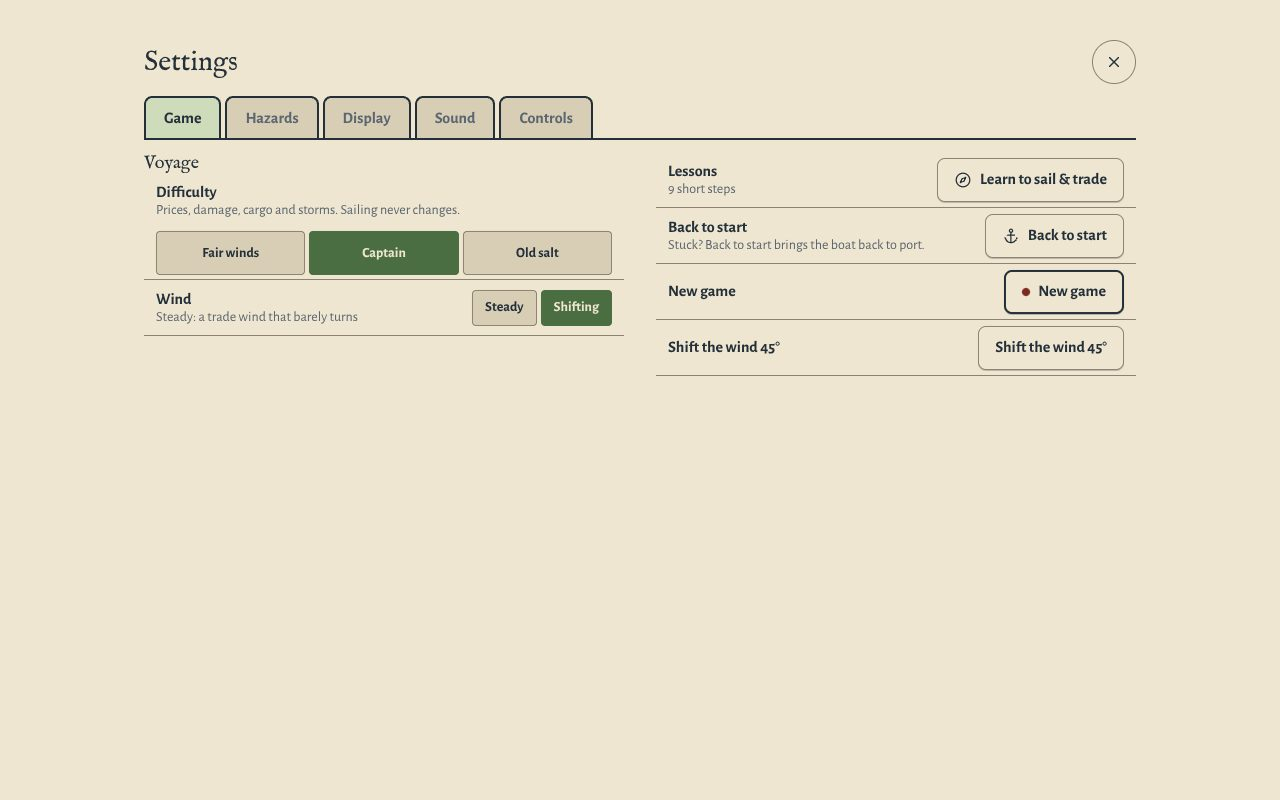
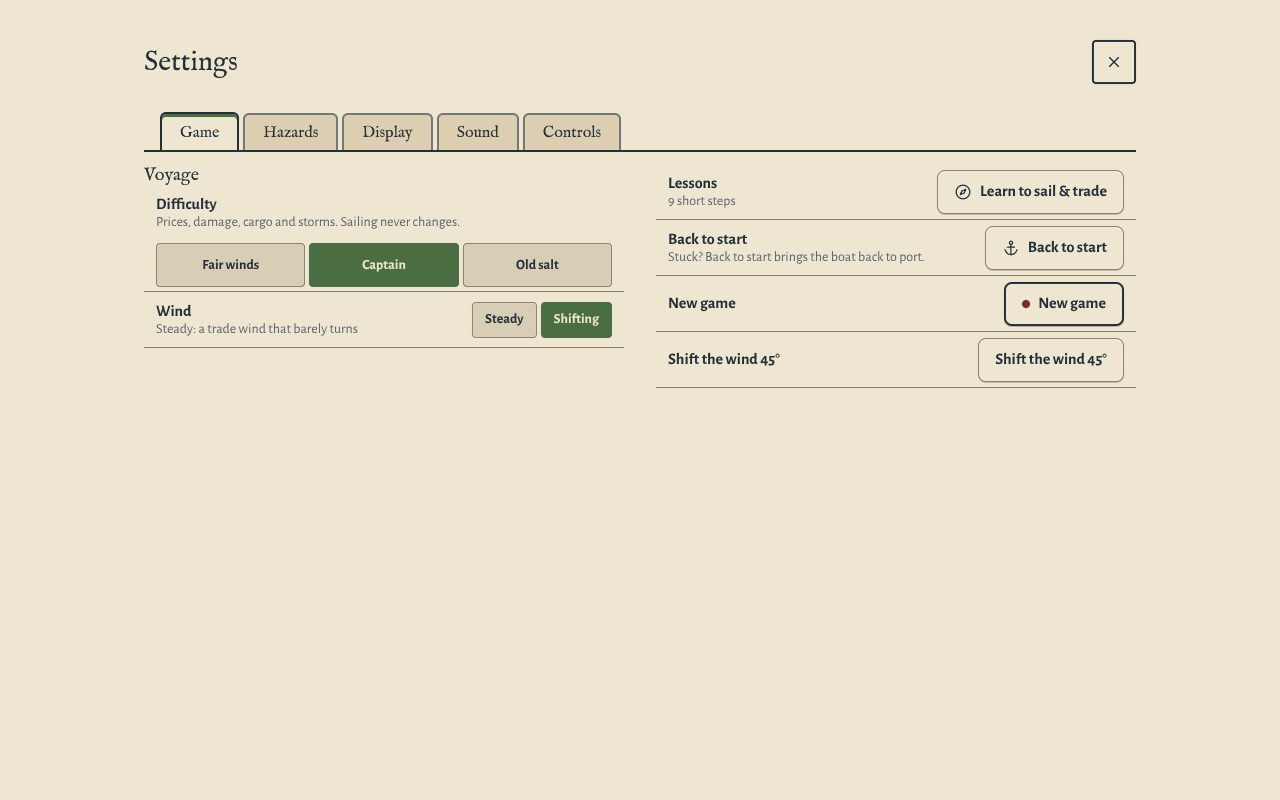
Tab bar as index tabs on a rule (art director spec); square close keycap
Claude-Session: https://claude.ai/code/session_013jvdBvYqFyHBf6tPtHmhV8

Changed region(s): [[0.0938, 0.0938, 0.7188, 0.4688], [0.7188, 0.1875, 0.875, 0.5]]

diff --git a/src/ui/components/components.css b/src/ui/components/components.css
@@ -62,12 +62,13 @@
   outline-offset: 2px;
 }
 
-/* --- Tab bar: paper tabs with an ink edge; the chosen one is sage wash with ink text ------------- */
-/* Every tab keeps one box and one weight, so choosing a tab only changes colours. */
+/* --- Tab bar: index tabs on a rule, like the tabs of a chart book (issue #457) ------------------ */
+/* A tab keeps one box and one weight chosen or not, so choosing only changes paper and the bar. */
 .ui-tabs {
   display: flex;
   align-items: flex-end;
   gap: var(--ui-tabs-gap);
+  padding: var(--ui-tabs-badge) var(--ui-space-2) 0 0;
   overflow-x: auto;
   scrollbar-width: none;
   border-bottom: var(--ui-tabs-edge) solid var(--ui-ink);
@@ -76,26 +77,39 @@
   display: none;
 }
 .ui-tab {
+  position: relative;
   display: flex;
   flex: none;
   align-items: center;
   gap: var(--ui-space-2);
-  min-height: var(--ui-touch-target);
-  margin-bottom: calc(-1 * var(--ui-tabs-edge));
+  height: calc(var(--ui-tabs-height) - var(--ui-tabs-rest-drop));
   padding: 0 var(--ui-tabs-pad-x);
-  border: var(--ui-tabs-edge) solid var(--ui-ink);
-  border-radius: var(--ui-radius-m) var(--ui-radius-m) 0 0;
-  background: var(--ui-face-off);
-  color: var(--ui-muted);
-  font-family: var(--ui-font-text);
+  border: var(--ui-tabs-edge) solid var(--ui-ink-soft);
+  border-bottom: 0;
+  border-radius: var(--ui-tabs-radius) var(--ui-tabs-radius) 0 0;
+  background: var(--ui-tab-rest);
+  color: var(--ui-ink);
+  font-family: var(--ui-font-title);
   font-size: var(--fs-lead);
-  font-weight: 700;
   white-space: nowrap;
   cursor: pointer;
 }
+/* The finger's zone is 44 px tall though the tab is shorter. */
+.ui-tab::after {
+  content: '';
+  position: absolute;
+  inset: -4px 0 0;
+}
 .ui-tab[aria-selected='true'] {
+  height: var(--ui-tabs-height);
+  margin-bottom: calc(-1 * var(--ui-tabs-edge));
+  border-color: var(--ui-ink);
+  background: var(--ui-face);
+  box-shadow: inset 0 var(--ui-tabs-bar) 0 var(--ui-sage);
+}
+.ui-tab:not([aria-selected='true']):hover,
+.ui-tab:not([aria-selected='true']):focus-visible {
   background: var(--ui-wash);
-  color: var(--ui-ink);
 }
 .ui-tab-icon {
   display: flex;
@@ -107,21 +121,21 @@
   height: 100%;
 }
 .ui-tab-badge {
-  display: inline-grid;
+  position: absolute;
+  top: calc(-1 * var(--ui-tabs-badge) / 4);
+  right: calc(-1 * var(--ui-tabs-badge) / 4);
+  display: grid;
   place-items: center;
-  min-width: 20px;
-  height: 20px;
-  padding: 0 var(--ui-space-1);
+  min-width: var(--ui-tabs-badge);
+  height: var(--ui-tabs-badge);
+  padding: 0 2px;
   border-radius: var(--ui-radius-pill);
-  background: var(--ui-ink);
-  color: var(--ui-paper);
-  font-size: var(--fs-note);
-  font-weight: 700;
-  line-height: 1;
-}
-.ui-tab-badge--sage {
   background: var(--ui-sage);
   color: var(--ui-on-sage);
+  font-family: var(--ui-font-text);
+  font-size: var(--fs-small);
+  font-weight: 700;
+  line-height: 1;
 }
 .ui-tabs .pad-key {
   flex: none;
@@ -131,7 +145,12 @@
   color: var(--ui-ink);
 }
 :root[data-layout='phone'] .ui-tab {
+  height: calc(var(--ui-tabs-height-phone) - var(--ui-tabs-rest-drop));
   padding: 0 var(--ui-tabs-pad-x-phone);
+  font-size: var(--fs-body);
+}
+:root[data-layout='phone'] .ui-tab[aria-selected='true'] {
+  height: var(--ui-tabs-height-phone);
 }
 :root[data-layout='phone'] .ui-tab-icon {
   width: var(--ui-tabs-icon-phone);
@@ -330,8 +349,8 @@ button.ui-row {
   width: var(--ui-touch-target);
   height: var(--ui-touch-target);
   padding: 0;
-  border: 1px solid var(--ui-rule);
-  border-radius: var(--ui-radius-pill);
+  border: var(--ui-tabs-edge) solid var(--ui-ink);
+  border-radius: var(--ui-radius-s);
   background: var(--ui-face);
   color: var(--ui-ink);
   cursor: pointer;

diff --git a/src/ui/components/tabBar.ts b/src/ui/components/tabBar.ts
@@ -13,8 +13,6 @@ export interface Tab {
   label: string;
   /** A small count after the label (open orders, new faces); nothing when 0 or left out. */
   badge?: number;
-  /** `sage` for people waiting, `ink` (default) for things to do. */
-  badgeTone?: 'ink' | 'sage';
   /** Inline SVG markup for the icon slot. */
   icon?: string;
 }
@@ -38,7 +36,7 @@ export class TabBar {
       if (tab.icon)
         b.insertAdjacentHTML('beforeend', `<span class="ui-tab-icon">${tab.icon}</span>`);
       b.append(el('span', 'ui-tab-label', tab.label));
-      if (tab.badge) b.append(tabBadge(tab.badge, tab.badgeTone));
+      if (tab.badge) b.append(tabBadge(tab.badge));
       b.type = 'button';
       b.setAttribute('role', 'tab');
       b.dataset.tab = tab.id;
@@ -82,6 +80,6 @@ export class TabBar {
   }
 }
 
-function tabBadge(n: number, tone: Tab['badgeTone'] = 'ink'): HTMLElement {
-  return el('span', `ui-tab-badge ui-tab-badge--${tone}`, String(n));
+function tabBadge(n: number): HTMLElement {
+  return el('span', 'ui-tab-badge', String(n));
 }

diff --git a/src/ui/theme/model.ts b/src/ui/theme/model.ts
@@ -86,6 +86,7 @@ const ROLES: Record<string, [day: string, night: string]> = {
   '--ui-face': ['var(--ui-paper)', 'var(--ui-paper-night)'],
   '--ui-face-off': ['var(--ui-paper-off)', 'var(--ui-paper-night-off)'],
   '--ui-muted': ['var(--ui-ink-muted)', 'var(--ui-ink-muted-night)'],
+  '--ui-tab-rest': ['var(--ui-tab-paper)', 'var(--ui-tab-paper-night)'],
   '--ui-wash': ['var(--ui-sage-wash)', 'var(--ui-sage-wash-night)'],
   '--ui-edge-torn': ['var(--ui-edge-torn-day)', 'var(--ui-edge-torn-night)'],
   '--ui-edge-brushed': ['var(--ui-edge-brushed-day)', 'var(--ui-edge-brushed-night)'],

diff --git a/docs/decisions/0278-one-tab-bar-on-every-screen.md b/docs/decisions/0278-one-tab-bar-on-every-screen.md
@@ -8,7 +8,7 @@ Settings, the harbour and the chart each drew tabs their own way. The Settings t
 
 ## Decision
 
-`src/ui/components/tabBar.ts` is the only tab implementation, in a top row on every screen (Guillaume, 2026-11-02): paper tabs with an ink edge on an ink rule, the chosen tab in the sage wash with ink text, the rest in muted ink, an optional icon and badge, LB and RB at the ends. Every tab keeps one box and one weight, so choosing changes colours only. Sizes are the `tabs` group of `theme.json`. A row that cannot fit scrolls, never wraps.
+`src/ui/components/tabBar.ts` is the only tab implementation, in a top row on every screen (Guillaume, 2026-11-02): index tabs of a chart book (art director's spec): paper file tabs with 6 px top corners and a 2 px ink outline on a 2 px ink rule. The chosen tab is paper with a 3 px sage bar, open to the page; the rest sit 3 px lower on darker paper with a soft ink outline and full-strength ink labels in IM Fell English. Hover and pad focus wash sage. A badge is a small sage circle on the tab's corner, the only filled colour. LB and RB are ink keycaps at the ends; the header's close is a square ink keycap. Every tab keeps one box and one weight, so choosing changes colours only. Sizes are the `tabs` group of `theme.json`. A row that cannot fit scrolls, never wraps.
 
 ## Consequences
 
